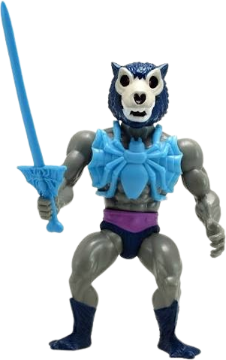
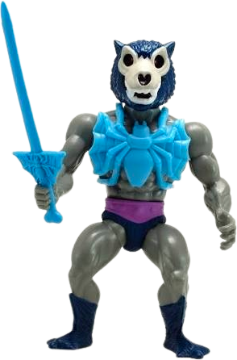
Photos: TERROR WOLF (super7-cl-v-004)

diff --git a/photos.js b/photos.js
@@ -2846,7 +2846,7 @@ window.MOTU_PHOTOS = {
    "img/characters/super7-cl-v-004-cb.webp?v=phmq5z",
    "img/characters/super7-cl-v-004-2.webp?v=phmq5z"
   ],
-  "preview": "img/characters/super7-cl-v-004-shelf.png?v=phmq5z",
-  "thumb": "img/characters/super7-cl-v-004-thumb.webp?v=phmq5z"
+  "preview": "img/characters/super7-cl-v-004-shelf.png?v=phzu1y",
+  "thumb": "img/characters/super7-cl-v-004-thumb.webp?v=phzu1y"
  }
 };
